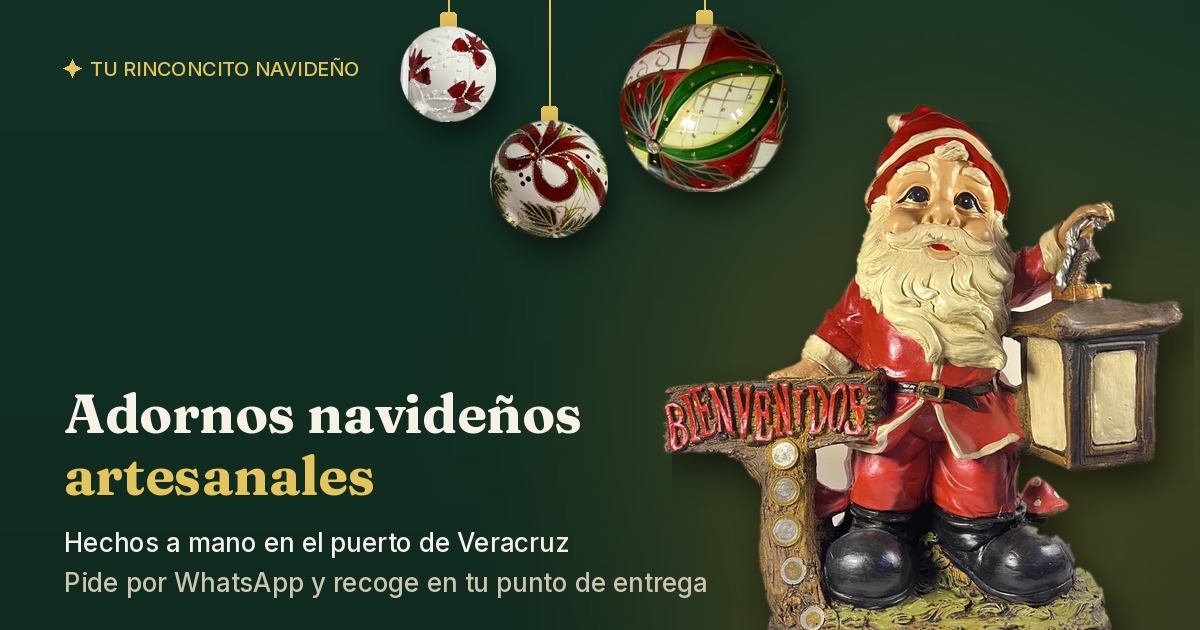
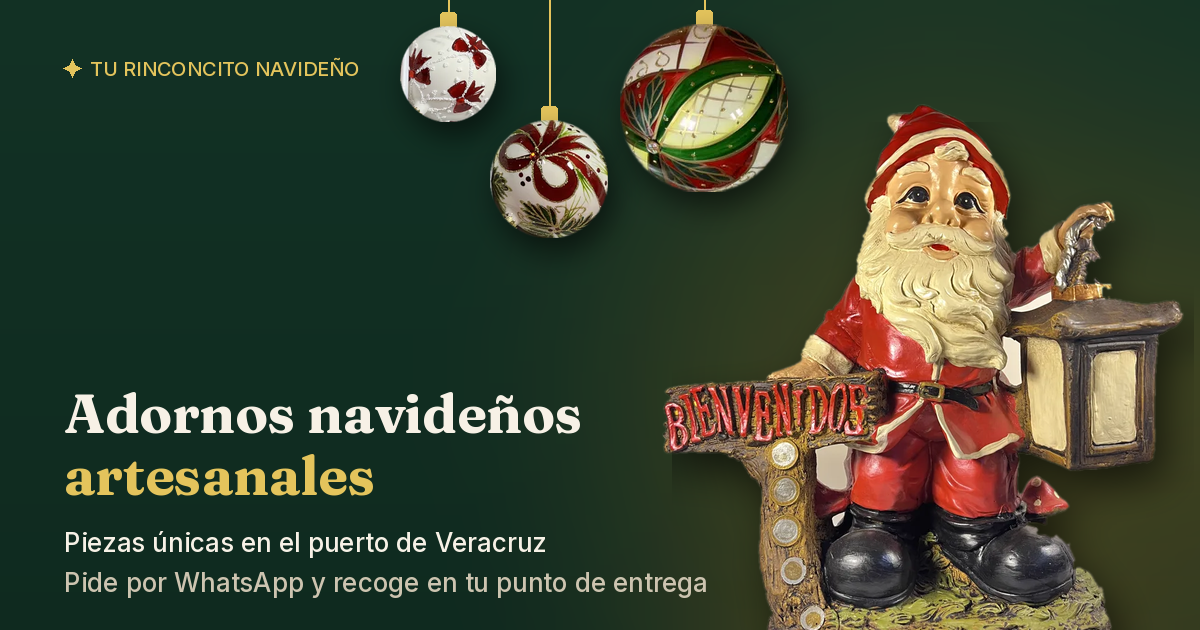
Quitar 'hechas a mano en Veracruz' de eslogan, descripciones e imagen para compartir; se mantiene 'artesanal'
Claude-Session: https://claude.ai/code/session_01R3KsoXGVQmgQ4KZX4FVkrN

Changed region(s): [[0.0617, 0.8444, 0.4933, 0.8746]]

diff --git a/index.html b/index.html
@@ -8,14 +8,14 @@
        Deben estar aquí, en el HTML, porque esas plataformas no ejecutan JavaScript.
        El dominio del sitio es turinconcitonavideno.com. -->
   <title>Adornos navideños artesanales en Veracruz | Tu Rinconcito Navideño</title>
-  <meta name="description" content="Esferas, nacimientos, cascanueces, centros de mesa luminosos y figuras navideñas hechas a mano en el puerto de Veracruz. Piezas únicas: elige las tuyas, pide por WhatsApp y recoge tu pedido en uno de nuestros cuatro puntos de entrega.">
+  <meta name="description" content="Esferas, nacimientos, cascanueces, centros de mesa luminosos y figuras navideñas artesanales en el puerto de Veracruz. Piezas únicas: elige las tuyas, pide por WhatsApp y recoge tu pedido en uno de nuestros cuatro puntos de entrega.">
   <link rel="canonical" href="https://turinconcitonavideno.com/">
 
   <meta property="og:type" content="website">
   <meta property="og:locale" content="es_MX">
   <meta property="og:site_name" content="Tu Rinconcito Navideño">
   <meta property="og:title" content="Adornos navideños artesanales en Veracruz">
-  <meta property="og:description" content="Esferas, nacimientos, cascanueces, centros de mesa luminosos y figuras hechas a mano en el puerto de Veracruz. Pide por WhatsApp y recoge en tu punto de entrega.">
+  <meta property="og:description" content="Esferas, nacimientos, cascanueces, centros de mesa luminosos y figuras artesanales. Piezas únicas en el puerto de Veracruz. Pide por WhatsApp y recoge en tu punto de entrega.">
   <meta property="og:url" content="https://turinconcitonavideno.com/">
   <meta property="og:image" content="https://turinconcitonavideno.com/img/og.png">
   <meta property="og:image:width" content="1200">
@@ -33,7 +33,7 @@
   <link rel="preconnect" href="https://fonts.gstatic.com" crossorigin>
   <link rel="stylesheet" href="https://fonts.googleapis.com/css2?family=Fraunces:ital,opsz,wght@0,9..144,500;0,9..144,600;1,9..144,500&display=swap">
   <!-- El ?v= cambia en cada publicación para que los celulares no usen archivos viejos -->
-  <link rel="stylesheet" href="css/estilos.css?v=20261108o">
+  <link rel="stylesheet" href="css/estilos.css?v=20261110a">
   <link rel="preload" as="image" href="img/portada/gnomo-m.webp" media="(max-width: 879px)">
   <link rel="preload" as="image" href="img/portada/gnomo.webp" media="(min-width: 880px)">
 
@@ -42,7 +42,7 @@
     "@context": "https://schema.org",
     "@type": "Store",
     "name": "Tu Rinconcito Navideño",
-    "description": "Adornos navideños artesanales hechos a mano en el puerto de Veracruz.",
+    "description": "Adornos navideños artesanales, piezas únicas, en el puerto de Veracruz.",
     "url": "https://turinconcitonavideno.com/",
     "image": "https://turinconcitonavideno.com/img/og.png",
     "telephone": "+522291433176",
@@ -87,7 +87,7 @@
       <div class="portada__interior">
         <div class="portada__texto-bloque">
           <h1 id="portada-titulo">Adornos navideños <em>artesanales</em> en el puerto de Veracruz</h1>
-          <p class="portada__texto" data-tienda="eslogan">Piezas únicas hechas a mano. Elige las tuyas, pide por WhatsApp y recógelas en tu punto de entrega.</p>
+          <p class="portada__texto" data-tienda="eslogan">Piezas únicas y artesanales. Elige las tuyas, pide por WhatsApp y recógelas en tu punto de entrega en Veracruz o Boca del Río.</p>
           <div class="portada__acciones">
             <a class="boton boton--dorado" href="#catalogo">Ver el catálogo</a>
             <a class="boton boton--contorno" data-whatsapp-duda href="#" target="_blank" rel="noopener">Escríbenos</a>
@@ -185,7 +185,7 @@
 
   <div class="toast" data-toast role="status" aria-live="polite"></div>
 
-  <script src="js/productos.js?v=20261108o" defer></script>
-  <script src="js/app.js?v=20261108o" defer></script>
+  <script src="js/productos.js?v=20261110a" defer></script>
+  <script src="js/app.js?v=20261110a" defer></script>
 </body>
 </html>

diff --git a/js/productos.js b/js/productos.js
@@ -8,7 +8,7 @@
 
 const TIENDA = {
   nombre: "Tu Rinconcito Navideño",            // nombre de la tienda
-  eslogan: "Piezas únicas hechas a mano en Veracruz. Elige las tuyas, pide por WhatsApp y recógelas en tu punto de entrega en Veracruz o Boca del Río.",
+  eslogan: "Piezas únicas y artesanales. Elige las tuyas, pide por WhatsApp y recógelas en tu punto de entrega en Veracruz o Boca del Río.",
   whatsapp: "522291433176",                    // lada + número, sin "+" ni espacios
   ciudad: "Veracruz, Ver.",
   moneda: "MXN",
@@ -40,7 +40,7 @@ const TIENDA = {
   },
 
   // Aviso corto que aparece arriba del catálogo. Déjalo en "" para ocultarlo.
-  aviso: "Piezas hechas a mano en cantidades limitadas. Pedidos navideños hasta el 20 de diciembre."
+  aviso: "Piezas artesanales únicas: solo tenemos una de cada una. Pedidos navideños hasta el 20 de diciembre."
 };
 
 /* ---------------------------------------------------------------------
@@ -96,7 +96,7 @@ const PRODUCTOS = [
     precioAnterior: null,
     categoria: "Figuras",
     descripcionCorta: "Santa gnomo con farol y letrero de Bienvenidos para recibir en la puerta.",
-    descripcion: "Un Santa gnomo de 53 cm de alto que recibe a tus visitas con su farol y un letrero de Bienvenidos. Es una pieza con presencia para la entrada de la casa, el recibidor o el pie del árbol. Adorno navideño artesanal, hecho a mano.",
+    descripcion: "Un Santa gnomo de 53 cm de alto que recibe a tus visitas con su farol y un letrero de Bienvenidos. Es una pieza con presencia para la entrada de la casa, el recibidor o el pie del árbol. Adorno navideño artesanal.",
     medidas: "48 cm de ancho x 53 cm de alto",
     material: "",
     imagenes: ["img/productos/gnomo-santa-entrada/01.webp"],
